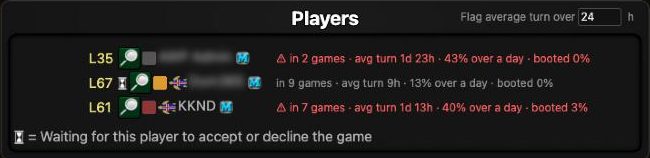
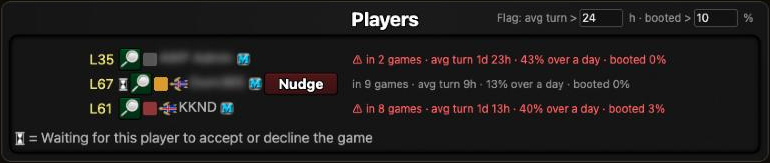
3.40.0: lobby flags players who are booted often
A boot-rate limit next to the turn-time one ("Flag: avg turn > 24 h ·
booted > 10 %"); the line's tooltip says why a player is flagged. The
shorter box fits beside "Players" in a narrow window. New lobby picture.

diff --git a/docs/guide.html b/docs/guide.html
@@ -185,7 +185,7 @@
   </figure>
   <h3>Player pace in a lobby</h3>
   <figure>
-    <img src="media/lobby-pace.png" width="650" height="158" alt="A lobby's Players box: next to each player a line such as in 7 games, avg turn 1d 13h, 40% over a day, booted 3%, two of them in red with a warning sign, and Flag average turn over 24 h at the top right">
+    <img src="media/lobby-pace.png" width="770" height="163" alt="A lobby you host: next to each player a line such as in 8 games, avg turn 1d 13h, 40% over a day, booted 3%, two of them in red with a warning sign, and Flag: avg turn > 24 h, booted > 10 % at the top right">
     <figcaption>Each player's pace from their profile; slower than your limit in red (other players' names blurred).</figcaption>
   </figure>
   <p>War.app decides who may join a game, so the script can't keep anyone out. In a game's lobby it shows each player's pace instead, read from their profile:</p>
@@ -196,7 +196,7 @@
     <li><strong>booted 3%</strong>: how often they were booted in their recent games.</li>
   </ul>
   <p>In a real-time lobby (a boot time of an hour or less) the line shows real-time turns instead: "avg turn 3m 20s · 59% over 2 min · booted 3%", with the limit in minutes (3 at first).</p>
-  <p>Hover a line for the long version, click it for the profile. <strong>Flag average turn over 24 h</strong>, at the right of "Players", marks players with a longer average turn in red with ⚠ (0 = off); as the host, remove them with war.app's <strong>Add/Remove Players</strong>. <span class="setting">Player pace in game lobbies</span> (on; settings → Games).</p>
+  <p>Hover a line for the long version and why it's flagged, click it for the profile. <strong>Flag: avg turn &gt; 24 h · booted &gt; 10 %</strong>, at the right of "Players", marks players with a longer average turn, or a higher boot rate, in red with ⚠ (0 turns either off); as the host, remove them with war.app's <strong>Add/Remove Players</strong>. <span class="setting">Player pace in game lobbies</span> (on; settings → Games).</p>
   <h3>Ask before committing</h3>
   <p><span class="setting">Ask Before Committing Orders</span> (off; settings → Games): Commit and Autopilot's Run+Commit ask "Commit your orders for this turn?" first, against accidental commits. The question is your browser's own dialog: OK commits, Cancel goes back to your orders.</p>
 

diff --git a/Tidy_up_your_Dashboard.user.js b/Tidy_up_your_Dashboard.user.js
@@ -5,7 +5,7 @@
 // @run-at document-start
 // @match https://*.war.app/*
 // @description Tidy Up Your Dashboard is a Userscript which brings along a lot of features for improving the user experience on War.app (formerly Warzone).
-// @version 3.39.0
+// @version 3.40.0
 // @author KKND (maintainer); Muli (original creator)
 // @icon https://raw.githubusercontent.com/pdxLife/warlight-muli-script/main/assets/icon.png
 // @homepageURL https://pdxlife.github.io/warlight-muli-script/
@@ -19,7 +19,7 @@
 // ==/UserScript==
 window.timeUserscriptStart = new Date().getTime();
 window.MULIS_USERSCRIPT = true;
-var version = (typeof GM_info !== 'undefined') ? GM_info.script.version : '3.39.0';
+var version = (typeof GM_info !== 'undefined') ? GM_info.script.version : '3.40.0';
 var DISABLED_FEATURES_KEY = "tidyUpYourDashboard.disabledFeatures";
 // Every domain war.app has used; the old ones now redirect to war.app. Bookmarks saved on any of them open on the current domain.
 var SITE_HOSTS = ["war.app", "warzone.com", "warlight.net"];
@@ -5562,13 +5562,6 @@ function setupLobbyPace() {
             if (title) {
                 var box = title.getBoundingClientRect();
                 control.css({ left: box.right - anchor.left - control.outerWidth() - 10, top: box.top - anchor.top + (box.height - control.outerHeight()) / 2 });
-                // In a narrow window the box would run into the centred "Players"; it moves to the line's left end instead.
-                var words = document.createRange();
-                words.selectNodeContents(title);
-                var text = words.getBoundingClientRect ? words.getBoundingClientRect() : box;
-                if (control[0].getBoundingClientRect().left < text.right + 8) {
-                    control.css({ left: box.left - anchor.left + 10 });
-                }
             }
         }
     };

diff --git a/docs/index.html b/docs/index.html
@@ -68,7 +68,7 @@
 <main>
   <header>
     <h1>Tidy Up Your Dashboard</h1>
-    <a class="version" href="https://github.com/pdxLife/warlight-muli-script/blob/main/CHANGELOG.md" title="What's new">v3.39.0</a>
+    <a class="version" href="https://github.com/pdxLife/warlight-muli-script/blob/main/CHANGELOG.md" title="What's new">v3.40.0</a>
     <p class="tagline">A userscript for <a href="https://war.app">war.app</a> in a desktop browser: a tidier dashboard, tournament tools, community ladders and leagues, and more.</p>
     <a class="install" href="https://raw.githubusercontent.com/pdxLife/warlight-muli-script/main/Tidy_up_your_Dashboard.user.js">Install</a>
     <ol class="steps">

diff --git a/ROADMAP.md b/ROADMAP.md
@@ -58,7 +58,7 @@ Ordered by priority within each phase. Line numbers refer to `Tidy_up_your_Dashb
 - [x] **A game's chat from the dashboard** *(3.37.0, "Add Button to Open Chat from MP Dashboard")*: 💬 on each My Games game opens a panel with that game's chat. war.app sends a game's chat only over the game's own socket.io connection (binary), and the public API needs the player's API token, so the game loads in a hidden same-origin frame (`#tuydGameChatFrame`); the script opens its chat (`ujs_ChatCollapseButton_btn`, clicked only while `ujs_Chat` is still `display: none`), reads `ujs_ChatTab` / `ujs_ChatTab_2` with `chatMessages()`, follows them with a MutationObserver, and sends through the frame's `ujs_SendChatInput[_2]_input` and `ujs_SendChatButton[_2]_btn`. Inside that frame the userscript does nothing (`inGameChatFrame()`); 3.37.1 shows the last 20 messages first and presses the frame's Load Older Messages only after Show all, since loading a long chat up front made the panel slow. Not done: private chat (war.app's player list), and an unread marker, since My Games rows don't say which games have new chat.
 - [x] **Text to speech for chat** *(3.31.0, "Dorex's quality of life updates: Text to speech", 33 votes)*: a 🔊 per `ujs_ChatMessage` (sender, timestamp, text; block-listed ones skipped) reading from there to the newest with `speechSynthesis`, in pieces of at most 180 characters; an opt-in setting reads new messages from others. Heard working in October 2026. Not done: a choice of voice and speed (the browser's default voice is used).
 - [x] **Chat rooms: hide events, mute, mentions** *(3.33.0; Feature Requests "Mute Button", "Tagging Players in Public Chat")*: chat room rows (`ChatRoomMessageControl`, stacked by `bottom` in each `ChatRoomTab`) whose message is bold italic are war.app's notices; hidden and muted rows are taken out and the rest slide down, with war.app's positions kept to restore. Mutes (`mutedChatPlayers`, by name) also apply in game chat. 3.34.0 adds the 🔊 read-aloud to the chat rooms, reading only rows that are shown. 3.35.0 adds a search box on that bar, @name suggestions in chat boxes (chat rooms and game chat; a capturing keydown listener keeps Enter from sending while the list is open), and a Chat button on the dashboard ("Add Button to Open Chat from MP Dashboard"). Not doable from a script: showing blocked players' messages (war.app doesn't send them), longer clan messages or more than 100 per chat, and notifying the player you mention.
-- [x] **Player pace in your lobby** *(3.38.0, [Feature Requests: "Additional filters for joining open games"](https://war.app/Forum/895824-additional-filters-joining-open-games))*. The asked-for join rules (at most X active games; not players who often move in the last 10% of the boot time) are enforced by war.app's server, so the script only informs the host, who removes players with war.app's own Add/Remove Players. Lobby rows (`ujs_PlayerRow`) show names only, and the magnifier's player card has no profile link, but `window.UJS_Hooks.za` holds the game's players (minified fields: name, level, a 4-digit token and the player ID; token 2924 and ID 215256 for KKND), and war.app builds profile links as the token's first two digits + ID + its last two (`eb.Gi` in ujs.js; 29 + 215256 + 24 = `Profile?p=2921525624`). `lobbyProfileCandidates()` finds players by the lobby's names, not by field names, and tries each possible link largest first, keeping the one whose page is titled "Name - War.app". `parseProfilePace()` reads "Currently in N multi-day games", "Booted N times (X% of their last …)", and Play Speed for multi-day games (the average, and turns per range from each bar's `title`). The line sits in one column right of the names, inside each row, and shortens or hides where the Players box has no room; the limit box is placed from the heading's text box, since war.app's text holders are zero-size anchors. The games count is never flagged: it doesn't always update in time. 3.38.1 switches real-time lobbies (boot time of an hour or less, from the lobby's "Boot time:" text) to the profile's real-time section, with turns over 2 minutes as slow and a limit in minutes. Not done: pace against each game's boot time (the profile has none), and the same line for players already in a game you're about to join.
+- [x] **Player pace in your lobby** *(3.38.0, [Feature Requests: "Additional filters for joining open games"](https://war.app/Forum/895824-additional-filters-joining-open-games))*. The asked-for join rules (at most X active games; not players who often move in the last 10% of the boot time) are enforced by war.app's server, so the script only informs the host, who removes players with war.app's own Add/Remove Players. Lobby rows (`ujs_PlayerRow`) show names only, and the magnifier's player card has no profile link, but `window.UJS_Hooks.za` holds the game's players (minified fields: name, level, a 4-digit token and the player ID; token 2924 and ID 215256 for KKND), and war.app builds profile links as the token's first two digits + ID + its last two (`eb.Gi` in ujs.js; 29 + 215256 + 24 = `Profile?p=2921525624`). `lobbyProfileCandidates()` finds players by the lobby's names, not by field names, and tries each possible link largest first, keeping the one whose page is titled "Name - War.app". `parseProfilePace()` reads "Currently in N multi-day games", "Booted N times (X% of their last …)", and Play Speed for multi-day games (the average, and turns per range from each bar's `title`). The line sits in one column right of the names, inside each row, and shortens or hides where the Players box has no room; the limit box is placed from the heading's text box, since war.app's text holders are zero-size anchors. The games count is never flagged: it doesn't always update in time. 3.40.0 adds a boot-rate limit (`lobbyPaceFlags()`, default 10%) next to the turn-time one. 3.38.1 switches real-time lobbies (boot time of an hour or less, from the lobby's "Boot time:" text) to the profile's real-time section, with turns over 2 minutes as slow and a limit in minutes. Not done: pace against each game's boot time (the profile has none), and the same line for players already in a game you're about to join.
 - [ ] **Optional cross-browser sync** of settings and bookmarks via `GM_setValue` or a gist. This requires moving off `@grant none`, which needs care because the script relies on the page's `$.cookie`. *(Deferred until the `@grant` migration in Phase 3.)*
 
 ## Phase 5 — Features from the original script

diff --git a/QA.md b/QA.md
@@ -35,7 +35,7 @@ A quick manual check of the script on the live site, about 10 minutes. Run it be
 | **Idle** `/Idle/Play` (close Idle elsewhere first) | A volume slider with a percentage next to war.app's speaker icon in the top bar; at 30%, Idle's sounds (conquests, battles) are clearly quieter, and the level is kept after a reload. In a market, select a resource and type more than you can afford (e.g. "121p"): Purchase asks "You typed 121p (121 quadrillion), more than you can afford…"; Cancel buys nothing and the money stays; an affordable number (e.g. 10) buys without a question. In the Powers tab, Use asks "Use Time Warp? You have N."; Cancel keeps the count. On the AP tab, Activate on an active artifact asks "Activate <name> (<rarity>)?". In the AP tab, View All: a "List" button sits after war.app's Sort box and opens a list of every artifact (by rarity, then by name), copies counted ("×2") and equipped ones marked; with an equipped artifact whose better copy is unequipped, that card has a gold "Better: <rarity>" tag and both are outlined, and the marks go away once the better one is equipped. Open war.app in a second tab and Idle there: both Idle tabs show "War.app Idle is also open in another tab…" (only test this with the second tab still at war.app's "close it elsewhere" question). In the Army Camps tab, each upgrade you can't afford shows "in …" after its armies/sec (hospitals and mines too), and one army camp shows "Best value" in gold; the text stays put while the numbers update. When the daily bonus, coin wheel, unclaimed powers or a battle are waiting, the tab title starts with "(N) "; with the Idle desktop notification setting on, switching to another tab and waiting for one of these shows a notification. A "Log" button sits left of the map's − and + buttons. Capture something: its pop-up appears under Log, newest first, with the time; Clear empties it. In View All → List, "store" on an artifact dims its card and tags it "Stored"; a stored better copy no longer makes a "Better" tag; "stored" takes it out again. Each helper can be turned off in the settings menu under Idle. |
 | **Quickmatch leaderboards** `/MultiPlayer?Quickmatch=1` → Leaderboards | Next to "Your rating: …", in gold, "Rank …" and within a few seconds "Rank #N of M"; going to that page in war.app's list shows you at #N. Pick a template under the category button: "Rank …" again, then that template's rank. Reopening within 10 minutes shows it at once. |
 | **A game with several players, some out** (eliminated, booted or surrendered) | Chat → Private: the list shows the players still in the game A to Z, then a gold line and the players who are out, dimmed; picking any of them opens the chat with that player. |
-| **A game's lobby** (one you host, and one you've joined) | Each player has a grey line right of their name, e.g. "in 7 games · avg turn 1d 13h · 40% over a day · booted 3%", the same numbers as on their profile; hovering shows the long version, clicking opens the profile. "Flag average turn over 24 h" sits at the right of "Players"; a player whose average turn is longer has a red ⚠ line; changing the hours re-marks at once and is remembered; 0 turns flagging off. A narrow window shortens the lines with "…" and hides them where there's no room. A real-time lobby (boot time in minutes) shows "avg turn 3m 20s · 59% over 2 min · booted 3%", no games count, and a limit in min (default 3), remembered apart from the multi-day hours. A started game shows none of this. The version number shows in the bottom-right corner in a lobby, and goes away once the game starts. |
+| **A game's lobby** (one you host, and one you've joined) | Each player has a grey line right of their name, e.g. "in 7 games · avg turn 1d 13h · 40% over a day · booted 3%", the same numbers as on their profile; hovering shows the long version, clicking opens the profile. "Flag: avg turn > 24 h · booted > 10 %" sits at the right of "Players", clear of the word, even in a narrow window; a player whose average turn is longer, or whose boot rate is higher, has a red ⚠ line whose tooltip ends "Flagged: …"; changing the hours re-marks at once and is remembered; 0 turns flagging off. A narrow window shortens the lines with "…" and hides them where there's no room. A real-time lobby (boot time in minutes) shows "avg turn 3m 20s · 59% over 2 min · booted 3%", no games count, and a limit in min (default 3), remembered apart from the multi-day hours. A started game shows none of this. The version number shows in the bottom-right corner in a lobby, and goes away once the game starts. |
 | **A game where it's your turn**, with "Ask Before Committing Orders" on (settings → Games) | Commit asks "Commit your orders for this turn?"; Cancel leaves the orders uncommitted; OK commits. With the setting off, Commit commits at once. |
 | **A game with a long chat** (more messages than war.app shows at first; GameID 45487618 shows "Load Older Messages") | Within a few seconds the whole chat is there without pressing "Load Older Messages" / "Older Chat", and the chat shows the newest message. A game with a short chat looks as before. |
 | **A game's chat**, read aloud | A faint 🔊 left of each message; clicking it reads that message and the ones after it ("baldwin: Every step is tough."), the button shows ■ meanwhile and goes back to 🔊 at the end; ■ stops at once. With "Read New Chat Messages Aloud in Games" on, a new message from someone else is read when it arrives; yours and the older ones aren't. |

diff --git a/README.md b/README.md
@@ -2,7 +2,7 @@
 
 A feature-rich userscript for [War.app](https://war.app) (formerly Warzone) that enhances the UI, adds search/sort capabilities, and brings quality-of-life improvements across the site.
 
-> **Version:** 3.39.0  
+> **Version:** 3.40.0  
 > **Requires:** [Tampermonkey](https://www.tampermonkey.net/) or [Greasemonkey](https://www.greasespot.net/)  
 > **Supported sites:** `war.app` and its subdomains (warzone.com and warlight.net now redirect there)
 
@@ -47,7 +47,7 @@ The script is for war.app in a desktop browser; it's used in Firefox, Zen and Ch
 - **The whole chat in a game** — when a game's chat has older messages behind war.app's "Load Older Messages" or "Older Chat" button, the script presses it for you until the whole chat is there, then returns to the newest message. With war.app's App Settings → **Chat Dialog** checked, war.app loads a page at a time (the script keeps pressing, up to 20 times) and opens long chats (300+) in a dialog; unchecked, one press loads everything.
 - **Read chat aloud** — a faint 🔊 at the left of each message in a game's chat reads it and the messages after it aloud, with your browser's own voice (who wrote it, then the text; links are read as "a link" and smileys as words). Click ■ to stop. With the setting **Read New Chat Messages Aloud** on, new messages from other players are read as they arrive, so you can listen while entering orders. Messages from players on your block list are never read.
 - **Private chat list** — in a game, the Private button's "select the player you'd like to chat privately with" list shows the players still in the game first, A to Z, then a gold line and the players who are out (eliminated, booted, surrendered, removed or declined), dimmed. In big games you no longer scroll past players who left long ago.
-- **Player pace in lobbies** — in a game's lobby, each player gets a line from their profile: multi-day games they're in, average multi-day turn, share of turns over a day, and boot rate. **Flag average turn over N h** marks slower players with a red ⚠, so the host can remove them with war.app's Add/Remove Players. Real-time lobbies (boot time of an hour or less) show real-time turns instead, with a limit in minutes.
+- **Player pace in lobbies** — in a game's lobby, each player gets a line from their profile: multi-day games they're in, average multi-day turn, share of turns over a day, and boot rate. **Flag: avg turn > N h · booted > N %** marks slower or often-booted players with a red ⚠, so the host can remove them with war.app's Add/Remove Players. Real-time lobbies (boot time of an hour or less) show real-time turns instead, with a limit in minutes.
 - **Ask before committing** (setting, off by default) — pressing Commit, or Autopilot's Run+Commit, first asks "Commit your orders for this turn?", so a stray click or tap doesn't send unfinished orders.
 
 ### Bookmarks

diff --git a/CHANGELOG.md b/CHANGELOG.md
@@ -1,5 +1,9 @@
 # Changelog
 
+## 3.40.0
+
+- **Lobby: flag players who are booted often.** The limit box beside "Players" reads "Flag: avg turn > 24 h · booted > 10 %" (in a real-time lobby, "avg turn > 3 min"): a player whose boot rate on their profile is over the percentage gets the red ⚠ too, and hovering the line says why ("Flagged: booted over 10%"). 0 turns either limit off; both are remembered.
+
 ## 3.39.0
 
 - **Past Games: filter by map and by number of players** (more from "Search/Sort Functionality for Past Games"). A second row on the Past Games bar: **Any map** lists the maps of the games on the page, by name, with how many games each ("Medium Earth (5)"); **1 v 1** or **More than 2 players**; and **Players from … to …**. Map names come from war.app's own map list, read once a week (about 1.4 MB) and matched to each game by its thumbnail; a map that isn't in war.app's list shows as "Map 74965". They're remembered with the other choices. Not possible from the Past Games page: a game's settings (No-Split, cards…) and its map's size, which the rows don't carry; and FFA versus team games, since the rows don't mark teams.
